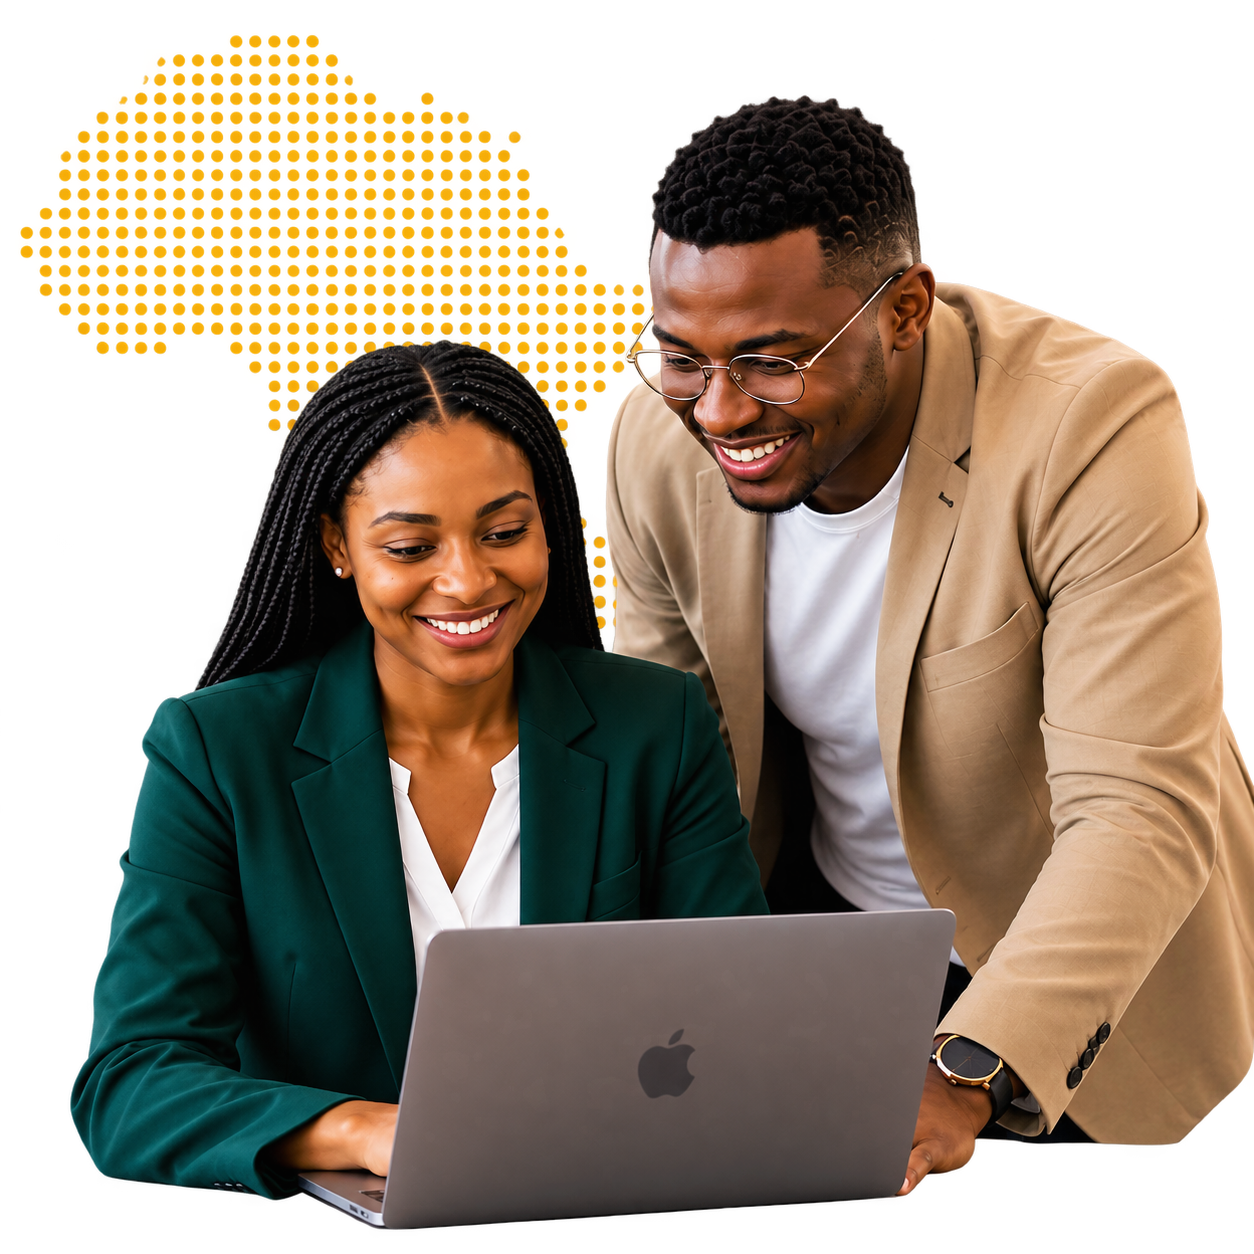
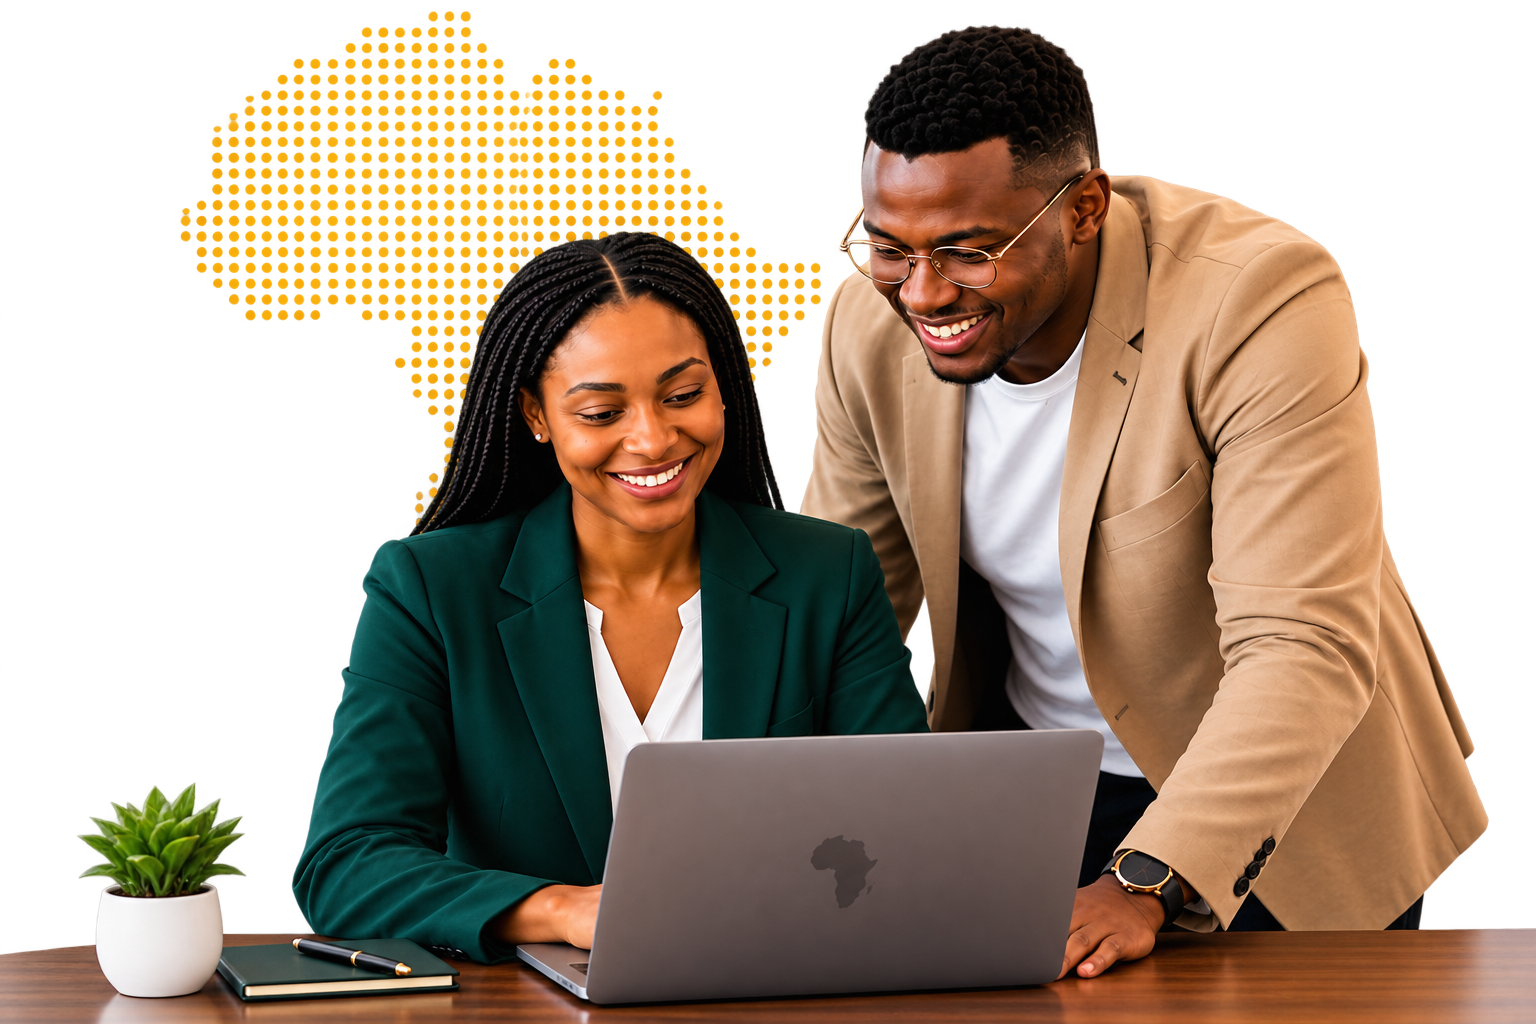
update landing page

diff --git a/src/app/(marketing)/page.tsx b/src/app/(marketing)/page.tsx
@@ -245,23 +245,20 @@ function SectionIntro({
   return (
     <div id={id} className="max-w-4xl">
       <p
-        className={`text-sm font-bold uppercase tracking-[0.18em] ${
-          reversed ? "text-[#d7a84f]" : "text-[#6f4e00]"
-        }`}
+        className={`text-sm font-bold uppercase tracking-[0.18em] ${reversed ? "text-[#d7a84f]" : "text-[#6f4e00]"
+          }`}
       >
         {eyebrow}
       </p>
       <h2
-        className={`mt-5 text-[clamp(2.25rem,3.9vw,4.4rem)] font-bold leading-none tracking-[-0.05em] text-balance ${
-          reversed ? "text-white" : "text-[#071512]"
-        }`}
+        className={`mt-5 text-[clamp(2.25rem,3.9vw,4.4rem)] font-bold leading-none tracking-[-0.05em] text-balance ${reversed ? "text-white" : "text-[#071512]"
+          }`}
       >
         {title}
       </h2>
       <p
-        className={`mt-6 max-w-3xl text-base leading-7 md:text-lg md:leading-8 ${
-          reversed ? "text-white/72" : "text-[#52605b]"
-        }`}
+        className={`mt-6 max-w-3xl text-base leading-7 md:text-lg md:leading-8 ${reversed ? "text-white/72" : "text-[#52605b]"
+          }`}
       >
         {copy}
       </p>
@@ -271,7 +268,7 @@ function SectionIntro({
 
 function HeroInterviewPreview() {
   return (
-    <aside className="relative mx-auto w-full max-w-[900px] lg:max-w-none lg:translate-x-4 lg:scale-[1.08] lg:origin-center">
+    <aside className="relative mx-auto w-full max-w-[900px] lg:max-w-none lg:translate-x-2 lg:translate-y-14 lg:scale-[1.18] lg:origin-center">
       <Image
         src="/marketing/banner.png"
         alt="Two professionals practising an interview with a laptop in front of a dotted map of Africa"
@@ -297,65 +294,65 @@ function HeroSearchForm({ options }: { options: HeroSearchOptions }) {
             Search roles worth preparing for.
           </h2>
         </div>
-      <form
-        action="/jobs"
-        data-analytics-event="hero_job_search_submit"
-        data-analytics-product="jobs"
-        className="rounded-[1.35rem] border border-[#d9cbb8] bg-white p-2.5 shadow-[0_18px_48px_rgba(29,43,37,0.08)]"
-      >
-        <div className="grid gap-3 lg:grid-cols-[1fr_1fr_auto]">
-          <label className="grid gap-2 px-3 py-2 text-sm font-bold text-[#173a32]">
-            Company
-            <span className="flex h-12 items-center gap-3 rounded-xl bg-[#f8efe2] px-4">
-              <Search className="h-4 w-4 text-[#00533f]" strokeWidth={2} />
-              <input
-                name="company"
-                list="hero-company-options"
-                placeholder="Safaricom"
-                autoComplete="organization"
-                className="min-w-0 flex-1 bg-transparent text-sm font-semibold text-[#071512] outline-none placeholder:text-[#8a8075]"
-              />
-            </span>
-          </label>
-          <label className="grid gap-2 px-3 py-2 text-sm font-bold text-[#173a32]">
-            Job title
-            <span className="flex h-12 items-center gap-3 rounded-xl bg-[#f8efe2] px-4">
-              <BriefcaseBusiness
-                className="h-4 w-4 text-[#00533f]"
-                strokeWidth={2}
-              />
-              <input
-                name="q"
-                list="hero-job-title-options"
-                placeholder="Product Manager"
-                autoComplete="off"
-                className="min-w-0 flex-1 bg-transparent text-sm font-semibold text-[#071512] outline-none placeholder:text-[#8a8075]"
-              />
-            </span>
-          </label>
-          <button
-            type="submit"
-            className="min-h-12 rounded-xl bg-[#00533f] px-6 text-sm font-bold uppercase tracking-[0.12em] text-white shadow-[0_2px_8px_rgba(0,83,63,0.22)] transition hover:-translate-y-px hover:bg-[#043b30] focus-visible:outline focus-visible:outline-2 focus-visible:outline-offset-4 focus-visible:outline-[#00533f] active:scale-[0.98]"
-          >
-            Search jobs
-          </button>
-        </div>
-        <datalist id="hero-company-options">
-          {options.companies.map((company) => (
-            <option key={company.value} value={company.label} />
-          ))}
-        </datalist>
-        <datalist id="hero-job-title-options">
-          {options.jobTitles.map((title) => (
-            <option key={title} value={title} />
-          ))}
-        </datalist>
-      </form>
+        <form
+          action="/jobs"
+          data-analytics-event="hero_job_search_submit"
+          data-analytics-product="jobs"
+          className="rounded-[1.35rem] border border-[#d9cbb8] bg-white p-2.5 shadow-[0_18px_48px_rgba(29,43,37,0.08)]"
+        >
+          <div className="grid gap-3 lg:grid-cols-[1fr_1fr_auto]">
+            <label className="grid gap-2 px-3 py-2 text-sm font-bold text-[#173a32]">
+              Company
+              <span className="flex h-12 items-center gap-3 rounded-xl bg-[#f8efe2] px-4">
+                <Search className="h-4 w-4 text-[#00533f]" strokeWidth={2} />
+                <input
+                  name="company"
+                  list="hero-company-options"
+                  placeholder="Safaricom"
+                  autoComplete="organization"
+                  className="min-w-0 flex-1 bg-transparent text-sm font-semibold text-[#071512] outline-none placeholder:text-[#8a8075]"
+                />
+              </span>
+            </label>
+            <label className="grid gap-2 px-3 py-2 text-sm font-bold text-[#173a32]">
+              Job title
+              <span className="flex h-12 items-center gap-3 rounded-xl bg-[#f8efe2] px-4">
+                <BriefcaseBusiness
+                  className="h-4 w-4 text-[#00533f]"
+                  strokeWidth={2}
+                />
+                <input
+                  name="q"
+                  list="hero-job-title-options"
+                  placeholder="Product Manager"
+                  autoComplete="off"
+                  className="min-w-0 flex-1 bg-transparent text-sm font-semibold text-[#071512] outline-none placeholder:text-[#8a8075]"
+                />
+              </span>
+            </label>
+            <button
+              type="submit"
+              className="min-h-12 rounded-xl bg-[#00533f] px-6 text-sm font-bold uppercase tracking-[0.12em] text-white shadow-[0_2px_8px_rgba(0,83,63,0.22)] transition hover:-translate-y-px hover:bg-[#043b30] focus-visible:outline focus-visible:outline-2 focus-visible:outline-offset-4 focus-visible:outline-[#00533f] active:scale-[0.98]"
+            >
+              Search jobs
+            </button>
+          </div>
+          <datalist id="hero-company-options">
+            {options.companies.map((company) => (
+              <option key={company.value} value={company.label} />
+            ))}
+          </datalist>
+          <datalist id="hero-job-title-options">
+            {options.jobTitles.map((title) => (
+              <option key={title} value={title} />
+            ))}
+          </datalist>
+        </form>
 
-      <p className="mt-6 max-w-2xl text-sm font-medium leading-6 text-[#5f6c66]">
-        Browsing jobs and opening official application links is public.
-        Preparation is optional and private to your workspace.
-      </p>
+        <p className="mt-6 max-w-2xl text-sm font-medium leading-6 text-[#5f6c66]">
+          Browsing jobs and opening official application links is public.
+          Preparation is optional and private to your workspace.
+        </p>
       </div>
     </section>
   );
@@ -365,10 +362,10 @@ function HeroSection() {
   return (
     <section className="relative isolate overflow-hidden bg-[#02271f] px-5 pb-10 pt-8 text-white md:px-8 md:pb-14 md:pt-10 lg:min-h-[calc(100dvh-5.25rem)] lg:px-12 lg:pb-8 lg:pt-6">
       <div className="mx-auto grid min-h-full max-w-[1440px] gap-10 lg:grid-cols-[minmax(420px,0.9fr)_minmax(560px,1.1fr)] lg:items-center lg:gap-2 xl:gap-6">
-        <div className="reveal-up relative z-10 lg:pb-5">
-          <h1 className="max-w-[12ch] text-[clamp(2.8rem,5vw,4.8rem)] font-bold leading-[0.99] tracking-[-0.058em] text-white text-balance">
-            <span className="block">Better preparation.</span>
-            <span className="block text-[#f7bd22]">Better opportunities.</span>
+        <div className="reveal-up relative z-10 lg:translate-y-24 lg:pb-5">
+          <h1 className="max-w-none text-[clamp(2.8rem,5vw,4.8rem)] font-bold leading-[0.99] tracking-[-0.058em] text-white text-balance">
+            <span className="block whitespace-nowrap">Better preparation.</span>
+            <span className="block whitespace-nowrap text-[#f7bd22]">Better opportunities.</span>
           </h1>
           <p className="mt-6 max-w-[32rem] text-[1.05rem] font-medium leading-8 text-white/85 md:text-[1.18rem]">
             Practise realistic interviews, get expert feedback, and walk into your{" "}
@@ -407,17 +404,17 @@ function HeroSection() {
 }
 
 const heroApplicants = [
-    "hero-applicant-1.jpg",
-    "hero-applicant-2.jpg",
-    "hero-applicant-3.jpg",
-    "hero-applicant-4.jpg",
-    "testimonial-daniel.jpg",
+  "hero-applicant-1.jpg",
+  "hero-applicant-2.jpg",
+  "hero-applicant-3.jpg",
+  "hero-applicant-4.jpg",
+  "testimonial-daniel.jpg",
 ];
 
 function HeroSocialProof() {
   return (
     <div className="mt-10 flex flex-wrap items-center gap-4">
-      <div className="flex -space-x-3" aria-label="Jiandae candidates">
+      <div className="flex -space-x-3.5" aria-label="Jiandae candidates">
         {heroApplicants.map((applicant, index) => (
           <Image
             key={applicant}
@@ -425,17 +422,17 @@ function HeroSocialProof() {
             alt={`Jiandae candidate ${index + 1}`}
             width={50}
             height={50}
-            className="h-10 w-10 rounded-full border-2 border-[#02271f] object-cover"
+            className="h-12 w-12 rounded-full border-2 border-[#02271f] object-cover"
           />
         ))}
       </div>
       <div>
         <p className="flex items-center gap-0.5 text-[#f7bd22]" aria-label="Five star rating">
           {Array.from({ length: 5 }, (_, index) => (
-            <Star key={index} className="h-3.5 w-3.5 fill-current" strokeWidth={1.5} />
+            <Star key={index} className="h-4 w-4 fill-current" strokeWidth={1.5} />
           ))}
         </p>
-        <p className="mt-1 max-w-[17rem] text-sm font-medium leading-5 text-white/80">
+        <p className="mt-1 max-w-[18rem] text-[0.95rem] font-medium leading-5 text-white/80">
           Join thousands of professionals improving their interview skills
         </p>
       </div>
@@ -948,16 +945,14 @@ function PricingSection({ plans }: { plans: PlanPrice[] }) {
             return (
               <article
                 key={plan.plan}
-                className={`flex min-h-full flex-col rounded-[1.5rem] border p-6 ${
-                  highlighted
+                className={`flex min-h-full flex-col rounded-[1.5rem] border p-6 ${highlighted
                     ? "border-[#063c31] bg-[#063c31] text-white shadow-[0_28px_70px_rgba(6,60,49,0.18)]"
                     : "border-[#d9cbb8] bg-white text-[#071512] shadow-[0_18px_54px_rgba(21,35,29,0.06)]"
-                }`}
+                  }`}
               >
                 <p
-                  className={`text-[11px] font-bold uppercase tracking-[0.16em] ${
-                    highlighted ? "text-[#d7a84f]" : "text-[#6f4e00]"
-                  }`}
+                  className={`text-[11px] font-bold uppercase tracking-[0.16em] ${highlighted ? "text-[#d7a84f]" : "text-[#6f4e00]"
+                    }`}
                 >
                   {plan.modeLabel}
                 </p>
@@ -965,9 +960,8 @@ function PricingSection({ plans }: { plans: PlanPrice[] }) {
                   {plan.name}
                 </h3>
                 <p
-                  className={`mt-4 text-base leading-7 ${
-                    highlighted ? "text-white/74" : "text-[#52605b]"
-                  }`}
+                  className={`mt-4 text-base leading-7 ${highlighted ? "text-white/74" : "text-[#52605b]"
+                    }`}
                 >
                   {plan.description}
                 </p>
@@ -975,9 +969,8 @@ function PricingSection({ plans }: { plans: PlanPrice[] }) {
                   {plan.display}
                 </p>
                 <p
-                  className={`mt-3 text-sm font-bold leading-6 ${
-                    highlighted ? "text-white/76" : "text-[#52605b]"
-                  }`}
+                  className={`mt-3 text-sm font-bold leading-6 ${highlighted ? "text-white/76" : "text-[#52605b]"
+                    }`}
                 >
                   {entitlementSummary(plan.entitlements)}. Credits expire after{" "}
                   {plan.planDays} days.
@@ -986,11 +979,10 @@ function PricingSection({ plans }: { plans: PlanPrice[] }) {
                   href={candidateHref(`/billing?plan=${plan.plan}`)}
                   data-analytics-event="purchase_intent_click"
                   data-analytics-product={plan.plan}
-                  className={`mt-auto inline-flex min-h-12 items-center justify-center gap-2 rounded-xl px-5 text-sm font-bold uppercase tracking-[0.12em] transition ${
-                    highlighted
+                  className={`mt-auto inline-flex min-h-12 items-center justify-center gap-2 rounded-xl px-5 text-sm font-bold uppercase tracking-[0.12em] transition ${highlighted
                       ? "bg-white text-[#063c31] hover:bg-[#f8efe2]"
                       : "bg-[#00533f] text-white hover:bg-[#063c31]"
-                  }`}
+                    }`}
                 >
                   {plan.checkoutEnabled ? "Choose plan" : "Start free"}
                   <ArrowRight className="h-4 w-4" strokeWidth={2} />
